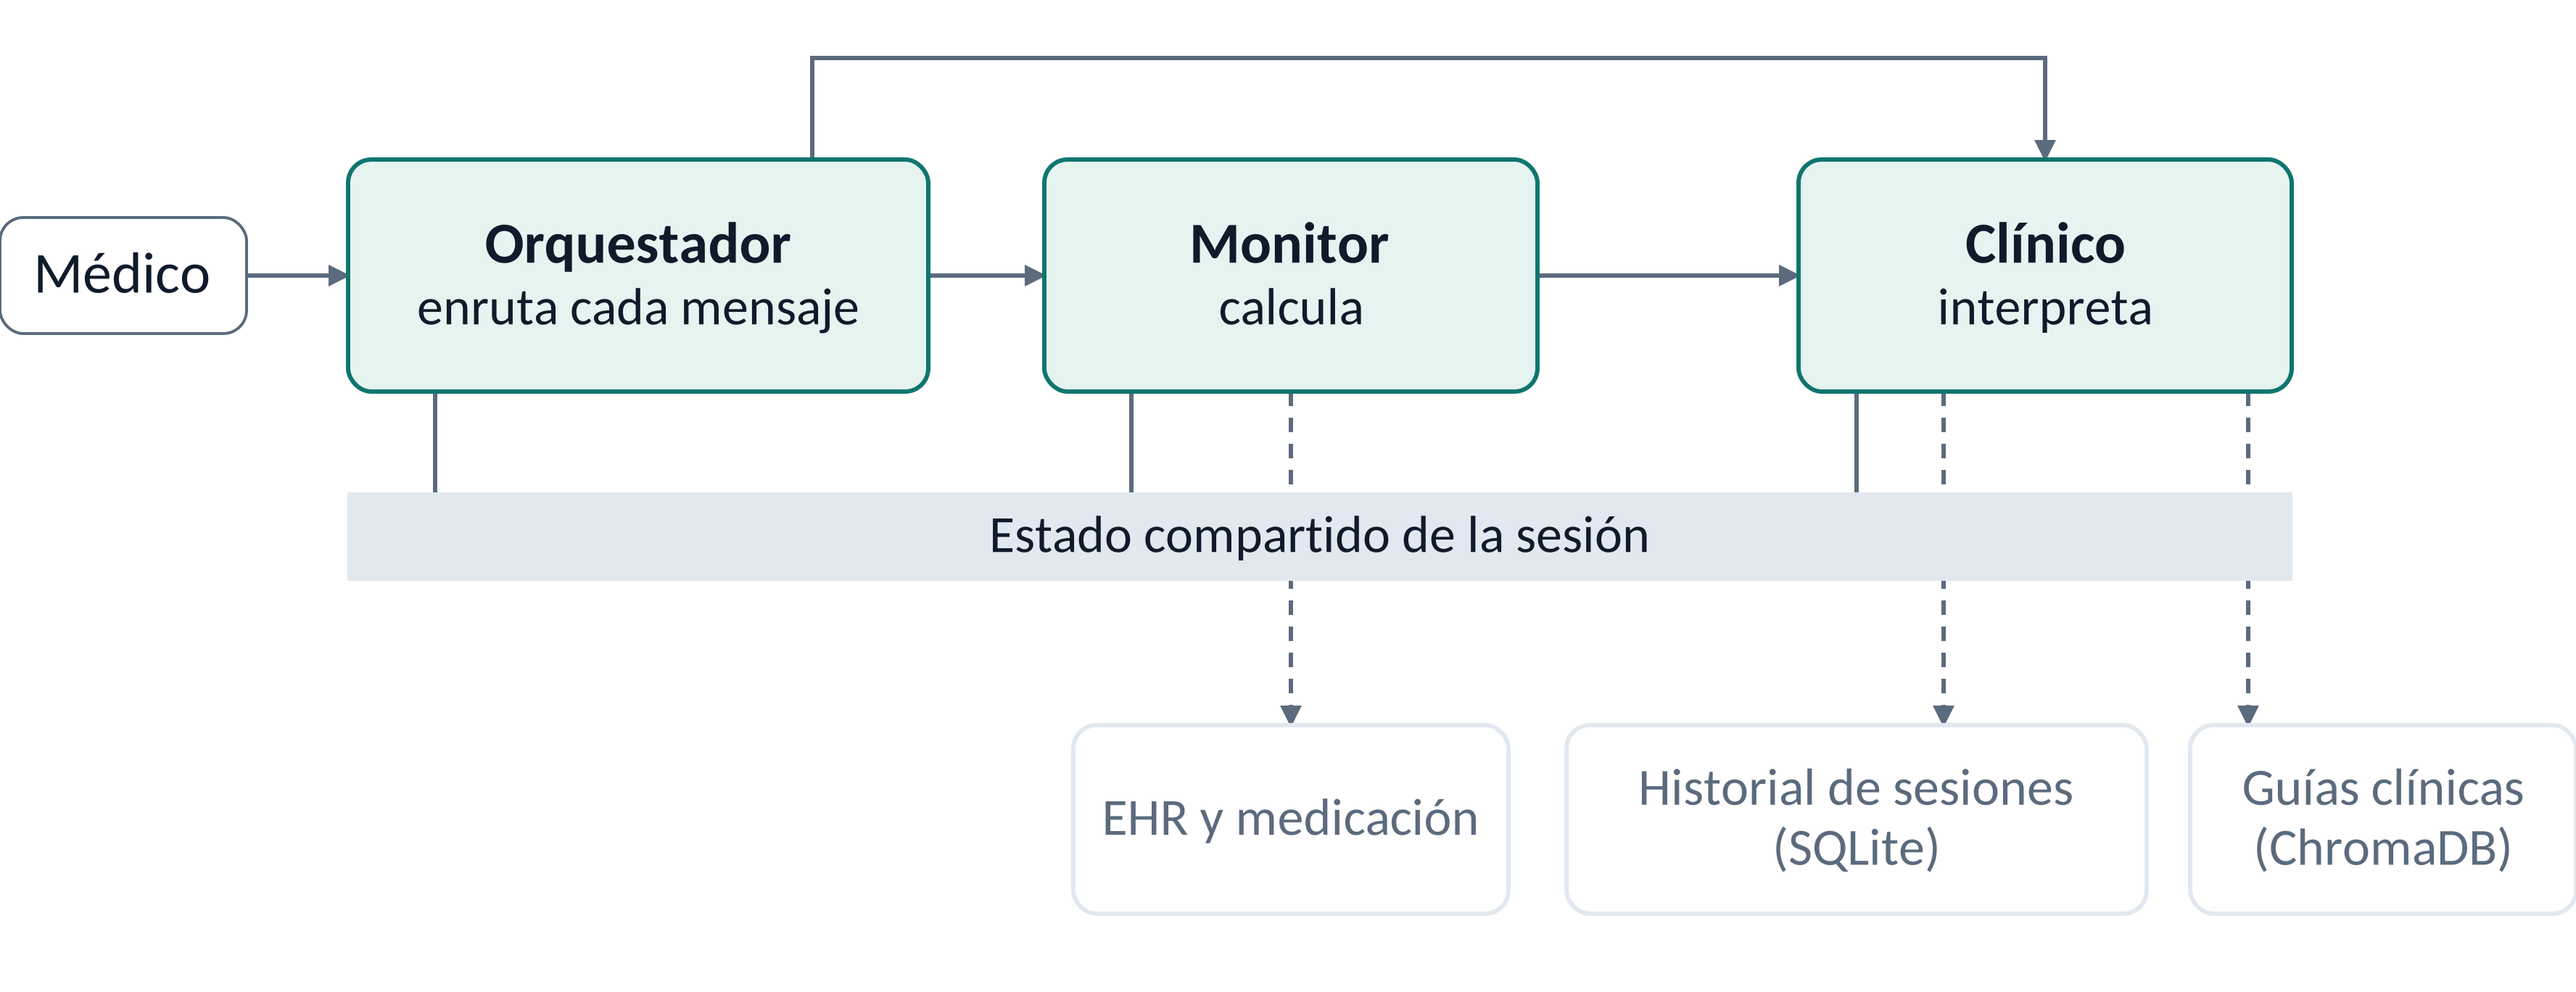
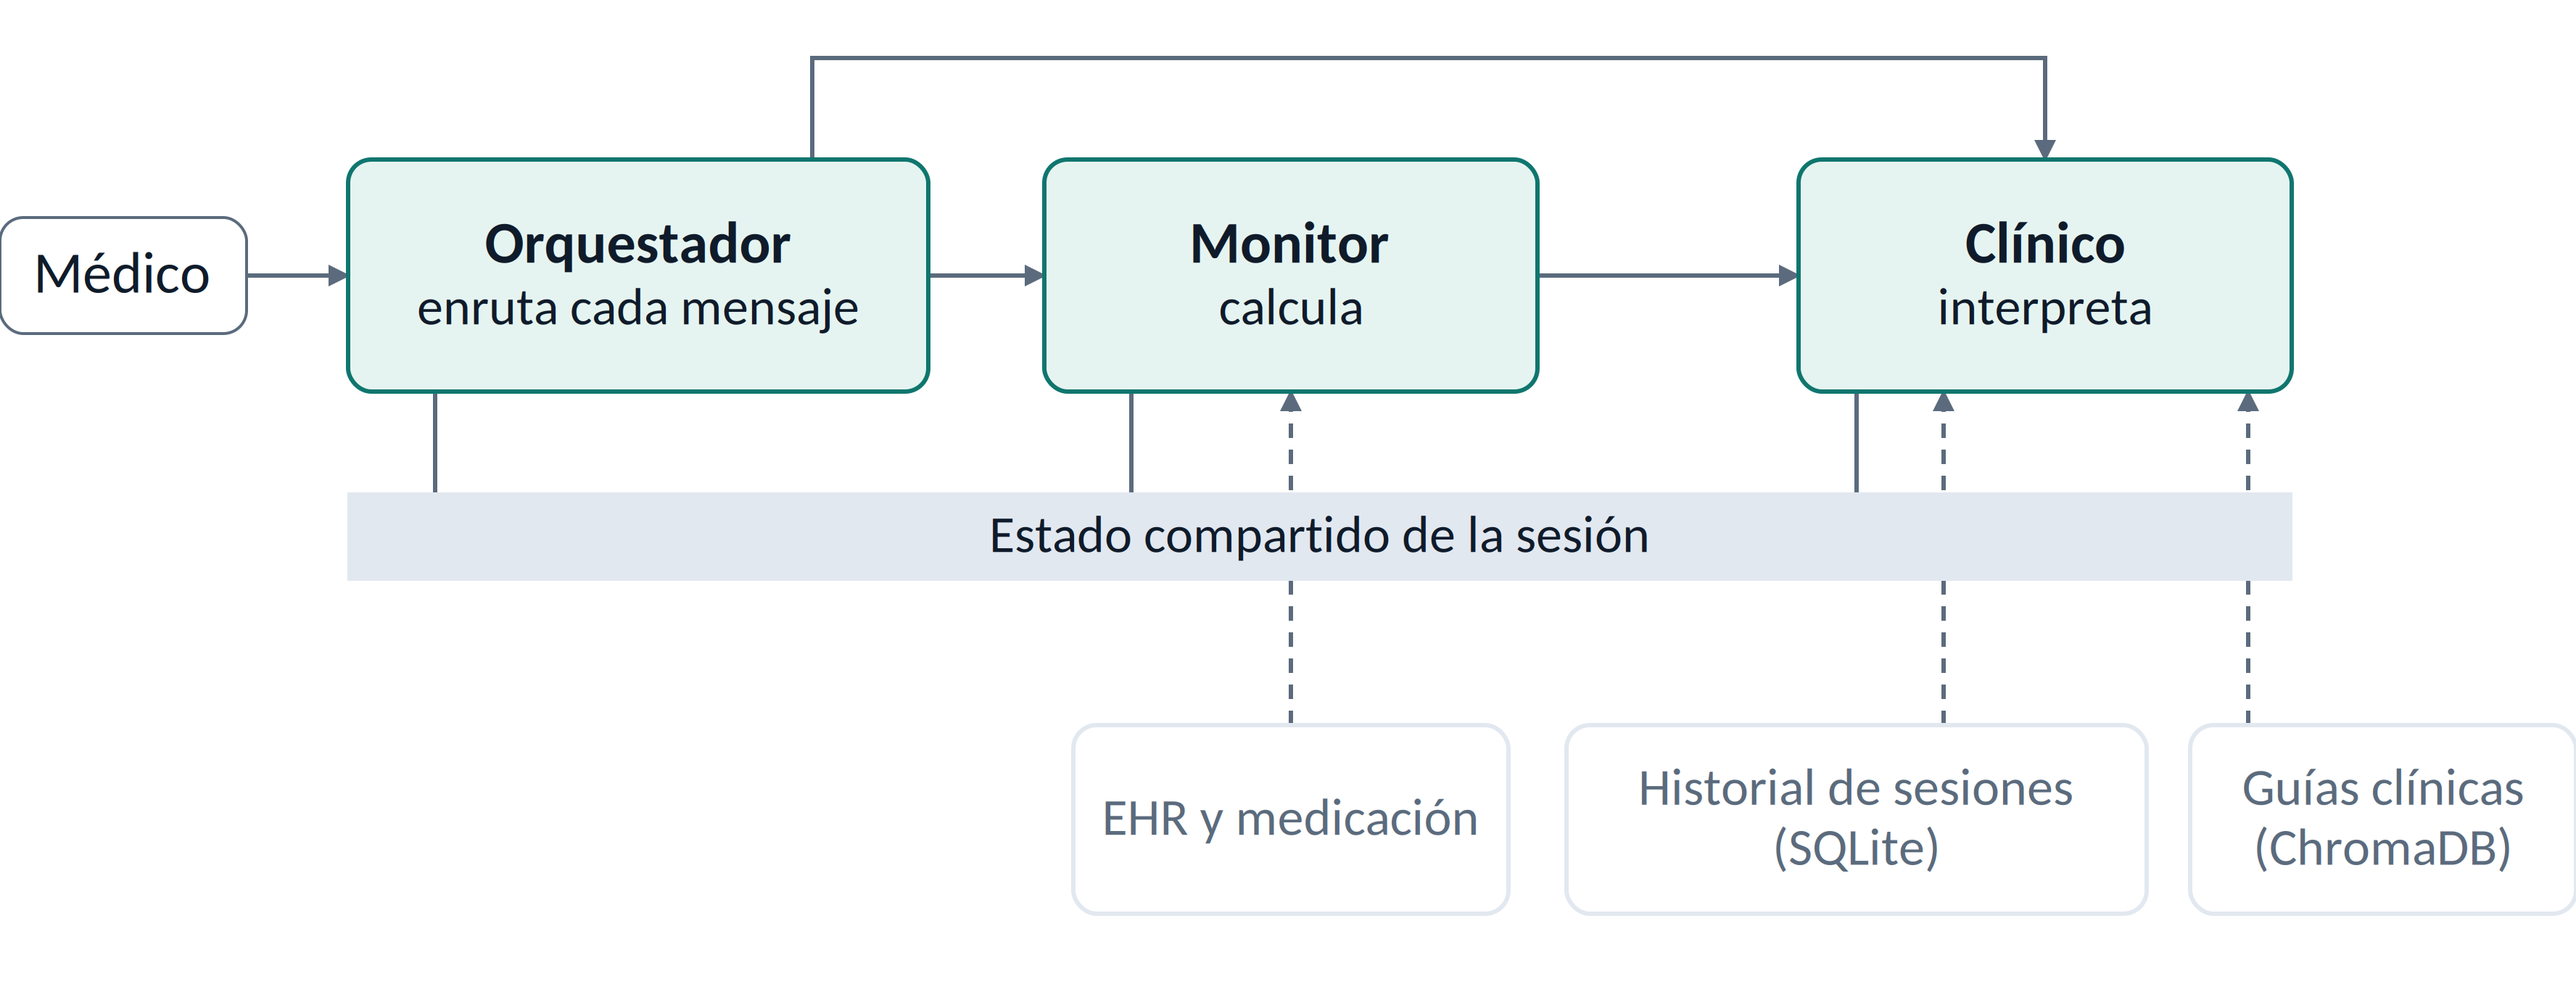
Docs: diagramas JIT con lecturas desde la fuente y margen superior en D2

diff --git a/docs/presentacion/diagramas/generar_diagramas.py b/docs/presentacion/diagramas/generar_diagramas.py
@@ -47,9 +47,10 @@ d1_edges = [
     edge("e2", [(640, 190), (720, 190)], "n2", "n3"),
     edge("e3", [(1060, 190), (1240, 190)], "n3", "n4"),
     edge("e4", [(560, AY), (560, 40), (1410, 40), (1410, AY)], "n2", "n4"),
-    edge("e5", [(890, 270), (890, 500)], "n3", "n5", dashed=True),
-    edge("e6", [(1340, 270), (1340, 500)], "n4", "n6", dashed=True),
-    edge("e7", [(1550, 270), (1550, 500)], "n4", "n7", dashed=True),
+    # lecturas: la flecha va de la fuente de datos al agente que la lee
+    edge("e5", [(890, 500), (890, 270)], "n5", "n3", dashed=True),
+    edge("e6", [(1340, 500), (1340, 270)], "n6", "n4", dashed=True),
+    edge("e7", [(1550, 500), (1550, 270)], "n7", "n4", dashed=True),
     # conectores cortos al estado compartido (sin flecha)
     edge("s2", [(300, 270), (300, 340)], "n2", "n8"),
     edge("s3", [(780, 270), (780, 340)], "n3", "n8"),
@@ -78,8 +79,8 @@ d2_edges = [
     edge("g5", [(240, 350), (215, 350), (215, 664), (1690, 664), (1690, 610)], "f2", "f7",
          label=["cancelar"], lpos=(1000, 642)),
     edge("g6", [(860, CY), (960, CY)], "f3", "f4"),
-    edge("g7", [(680, RY), (680, 40), (1720, 40), (1720, 470)], "f3", "f7",
-         label=["sin datos del paciente"], lpos=(700, 26), lanchor="start"),
+    edge("g7", [(680, RY), (680, 62), (1720, 62), (1720, 470)], "f3", "f7",
+         label=["sin datos del paciente"], lpos=(700, 48), lanchor="start"),
     edge("g8", [(1180, CY), (1230, CY)], "f4", "f5"),
     edge("g9", [(1430, 190), (1430, 140), (820, 140), (820, RY)], "f5", "f3", color=TEAL,
          label=["no: vuelve al Monitor (máximo 3 ciclos)"], lpos=(1125, 124)),
